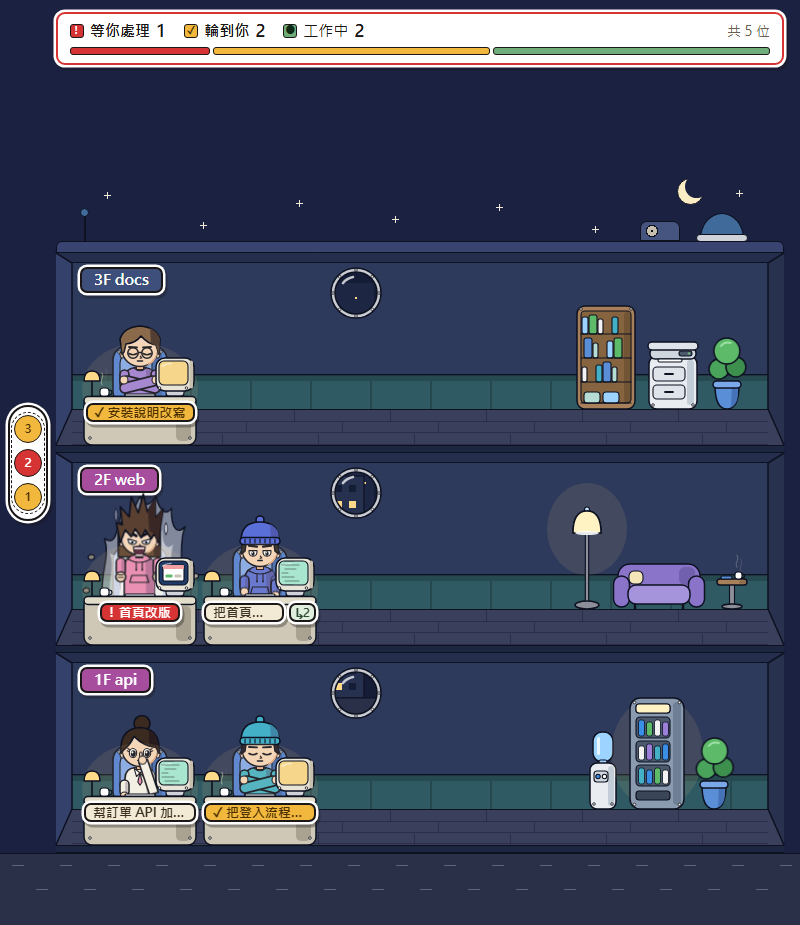
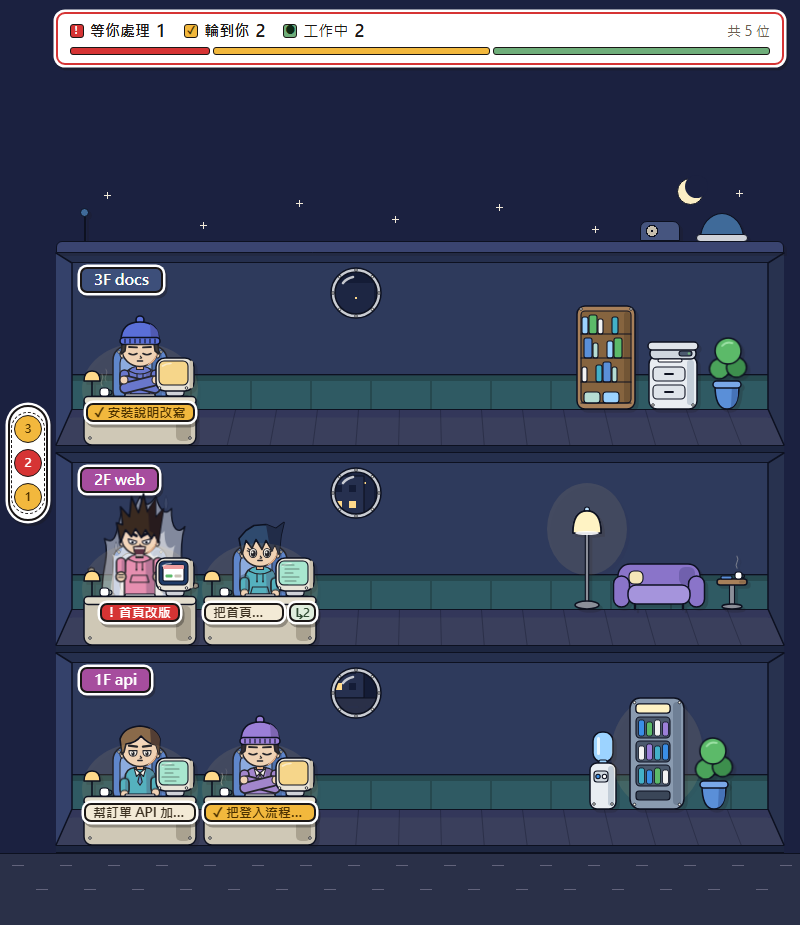
feat: 整體色調和明暗對齊設計稿：天空漸層、深墨線、透視木地板、冷白桌子、硬投影
天空改成設計稿的 #5fb6f5 到 #bfe6ff 漸層（--sky-bg，固定在視窗上，頂端狀態列共用），窗景天空取漸層中間值。
墨線統一成設計稿的 #1b1716。木地板改成透視板縫（objects.ts 的 floorSeams，floor.ts 依樓層寬畫）加後緣深色帶子。
桌子改冷白，桌子、家具、屋頂加往右下的墨色半透明硬投影（--drop）；設計稿的暖褐投影色相太接近琥珀，不用。
樓板、屋頂改成設計稿的顏色。夜晚照舊，只補新變數的夜晚值。重拍 README 截圖。

diff --git a/web/src/styles/building.css b/web/src/styles/building.css
@@ -1,16 +1,16 @@
-html { background: var(--page-bg); }
+html { background: var(--sky-bg); }
 /* body 是直向 flex：狀態列取自己的高度，大樓 flex:1 補滿剩下的視窗高（不必量狀態列） */
-body { margin: 0; min-height: 100vh; display: flex; flex-direction: column; background: var(--page-bg); color: var(--text); font-family: system-ui, "Microsoft JhengHei", sans-serif; }
+body { margin: 0; min-height: 100vh; display: flex; flex-direction: column; color: var(--text); font-family: system-ui, "Microsoft JhengHei", sans-serif; }
 [hidden] { display: none !important; }
 /* 剖面大樓：上方天空、樓層（最高樓在上）、下方地面；樓層左邊留 56 給電梯面板、右邊距 16 */
 #building { flex: 1 0 auto; display: flex; flex-direction: column; overflow-anchor: none; } /* 錨定由 building.ts 自己做（瀏覽器在 scrollY 0 不錨定） */
-/* 天空：頁面底色。白天太陽與白雲、夜晚月牙與星星（building.ts 的 sky()），都貼著天空底部（屋頂上方），天空高時上面留空 */
-#building .sky { position: relative; overflow: hidden; flex: 1 0 72px; background: var(--page-bg); pointer-events: none; }
+/* 天空：透明，露出頁面的天空（theme.css 的 --sky-bg）。白天太陽與白雲、夜晚月牙與星星（building.ts 的 sky()），都貼著天空底部（屋頂上方），天空高時上面留空 */
+#building .sky { position: relative; overflow: hidden; flex: 1 0 72px; pointer-events: none; }
 .sky > div { position: absolute; box-sizing: border-box; }
 .sky .sun, .sky .moon { right: 12%; bottom: 36px; width: 30px; height: 30px; border: 1.4px solid var(--ink); border-radius: 50%; background: var(--sun); }
-/* 月牙：右上蓋一個天空色的圓（不描邊），只留左下的彎月 */
+/* 月牙：右上蓋一個夜空色（夜晚的 --sky-bg 是平塗）的圓（不描邊），只留左下的彎月 */
 .sky .moon { width: 27px; height: 27px; }
-.sky .moon::after { content: ''; position: absolute; left: 6.6px; top: -3.9px; width: 23px; height: 23px; border-radius: 50%; background: var(--page-bg); }
+.sky .moon::after { content: ''; position: absolute; left: 6.6px; top: -3.9px; width: 23px; height: 23px; border-radius: 50%; background: var(--sky-bg); }
 /* 白雲：building.ts 畫的蓬鬆輪廓 svg 撐滿框；框的寬高比照輪廓（78:36） */
 .sky .cloud svg { display: block; width: 100%; height: 100%; overflow: visible; }
 .sky .cloud.c1 { left: 21%; bottom: 14px; width: 60px; height: 28px; }
@@ -21,7 +21,7 @@ body { margin: 0; min-height: 100vh; display: flex; flex-direction: column; back
 :root[data-time="night"] .sky .sun, :root[data-time="night"] .sky .cloud,
 :root:not([data-time="night"]) .sky .moon, :root:not([data-time="night"]) .sky .star { display: none; }
 /* 屋頂：疊在天空底部（往上蓋 30px），只多出 12px 的女兒牆；寬度對齊樓層。圓角機械風，平塗加 1.6px 墨線框 */
-#building .roof { position: relative; z-index: 1; height: 42px; margin: -30px 16px 0 56px; pointer-events: none; }
+#building .roof { position: relative; z-index: 1; height: 42px; margin: -30px 16px 0 56px; pointer-events: none; filter: var(--drop); }
 .roof > div { position: absolute; bottom: 12px; box-sizing: border-box; }
 .roof .parapet { left: 0; right: 0; bottom: 0; height: 12px; border: 1.6px solid var(--ink); border-radius: 6px 6px 0 0; background: var(--roof); }
 /* 圓頂水塔：下緣一圈鋼箍 */
@@ -52,12 +52,11 @@ body { margin: 0; min-height: 100vh; display: flex; flex-direction: column; back
     linear-gradient(var(--wainscot-top), var(--wainscot-top)) 0 112.5px / 100% 5px no-repeat,
     repeating-linear-gradient(90deg, transparent 0 58px, var(--wainscot-top) 58px 60px) 0 117.5px / 100% 29px no-repeat,
     linear-gradient(var(--wainscot), var(--wainscot)) 0 112px / 100% 34px no-repeat, var(--wall); }
-/* 木地板：橫向木板，每 12 一條板縫，接縫一排一排錯開 */
+/* 木地板：靠後牆一條較深的帶子（連上緣墨線共 9，objects.ts 的 FLOOR_BAND）；透視板縫是疊在上面的 .seams（objects.ts 的 floorSeams，floor.ts 依樓層寬畫） */
 .boards { left: 16px; right: 16px; top: 156px; height: 36px; box-sizing: border-box; border-top: 1.5px solid var(--fig-ink);
-  background: linear-gradient(90deg, var(--floor-seam) 0 1.2px, transparent 1.2px) 30px 0 / 96px 10.5px repeat-x,
-    linear-gradient(90deg, var(--floor-seam) 0 1.2px, transparent 1.2px) 78px 11.5px / 96px 11px repeat-x,
-    linear-gradient(90deg, var(--floor-seam) 0 1.2px, transparent 1.2px) 54px 23.5px / 96px 11px repeat-x,
-    repeating-linear-gradient(transparent 0 10.5px, var(--floor-seam) 10.5px 11.5px), var(--floor-wood); }
+  background: linear-gradient(var(--floor-back), var(--floor-back)) 0 0 / 100% 7.5px no-repeat, var(--floor-wood); }
+.seams { left: 0; top: 156px; pointer-events: none; }
+.seams svg { display: block; }
 .side { top: 0; width: 16px; height: 192px; pointer-events: none; }
 .side svg { display: block; }
 .side-l { left: 0; }
@@ -71,6 +70,8 @@ body { margin: 0; min-height: 100vh; display: flex; flex-direction: column; back
 /* 右端家具區：離樓層右緣 24（GEO.sideGap）、寬 200（GEO.furnitureW） */
 .furniture { top: 0; right: 24px; width: 200px; height: 200px; pointer-events: none; }
 .obj { position: absolute; display: block; overflow: visible; }
+/* 桌子、家具、屋頂往右下的硬投影（設計稿）：離開牆面、有深度 */
+.desk > .obj, .furniture > .obj { filter: var(--drop); }
 .desk { position: absolute; top: 0; width: 120px; height: 200px; }
 .desk .desk-code { display: none; }
 .desk[data-st="working"] .desk-code { display: inline; } /* 工作中螢幕上捲動的程式碼（objects.ts 的 DESK_CODE） */

diff --git a/web/src/objects.ts b/web/src/objects.ts
@@ -1,4 +1,4 @@
-// 圓滾滾機械風物件：桌子、椅子、圓窗、右端家具、房間的兩側斜牆。純函式產生 SVG 字串（不碰 DOM），defsSvg() 放進頁面共用的隱藏 <svg>，再用 <use href="#id"> 擺上去。
+// 圓滾滾機械風物件：桌子、椅子、圓窗、右端家具、房間的兩側斜牆、木地板的透視板縫。純函式產生 SVG 字串（不碰 DOM），defsSvg() 放進頁面共用的隱藏 <svg>，再用 <use href="#id"> 擺上去。
 // 畫風和人物一樣：黑色線稿（mk 粗、mk-thin 細）、一階硬影（右側一塊加深的實色，不用網點）、圓角、鉚釘。
 // 座標：原點 = 底邊中點，x 往右、y 往上是負的；symbol 的 viewBox = `${-w/2} ${-h} ${w} ${h}`。
 // 顏色規則：一律寫在 style 或 class，不用 fill="色"／stroke="色" 屬性。
@@ -53,13 +53,26 @@ const BOOKS = ['#9cd3ff', '#5cba69', '#f2f2f2', '#9b7fd8', '#43b0c8', '#5a8fd8',
 //    同一張圖也畫天花板（0–10）和木地板（156–192）的斜角，中段由 building.css 的 .ceil、.wall、.boards 接上 ──
 
 const SIDE = 16, CEIL = 10, BACK = 156, FLOOR = 192;
+/** 木地板靠後牆那條較深的帶子高度（building.css 的 .boards 畫中段，這裡畫斜角） */
+const FLOOR_BAND = 9;
 export const ROOM_SIDE = tag('svg', { xmlns: 'http://www.w3.org/2000/svg', width: SIDE, height: FLOOR, viewBox: `0 0 ${SIDE} ${FLOOR}`, 'aria-hidden': 'true', style: 'overflow:visible' },
   path(`M0 0 H${SIDE} V${CEIL}Z`, undefined, fill('var(--ceiling)'))
   + path(`M0 0 L${SIDE} ${CEIL} V${BACK} L0 ${FLOOR}Z`, undefined, fill('var(--side-wall)'))
   + path(`M${SIDE} ${BACK} V${FLOOR} H0Z`, undefined, fill('var(--floor-wood)'))
+  + path(`M${SIDE} ${BACK} V${BACK + FLOOR_BAND} H${SIDE * (1 - FLOOR_BAND / (FLOOR - BACK))}Z`, undefined, fill('var(--floor-back)'))
   + line(`M0 0 L${SIDE} ${CEIL} V${BACK} L0 ${FLOOR}`, 'mk'));
 
-// ── 桌子 112×88：奶油白桌身、白色桌面、右側抽屜的硬影；胖胖的映像管螢幕在右邊 x 16–54、y −87 到 −54（外殼不放大，畫面放大、邊框變窄）；正面 y −42 到 −23 留白給 HTML 名牌 ──
+/** 木地板的透視板縫（設計稿）：後緣每約 42 一條，往前散開，前緣對到樓層兩端，像兩側斜牆一樣往外收。
+ *  width 是樓層寬，座標從樓層左緣、後牆底（樓層 y 156）起算；floor.ts 依樓層寬重畫 */
+export function floorSeams(width: number): string {
+  const n = Math.max(1, Math.round((width - 2 * SIDE) / 42)), round1 = (v: number) => Math.round(v * 10) / 10;
+  let d = '';
+  for (let i = 1; i < n; i++) d += `M${round1(SIDE + (i / n) * (width - 2 * SIDE))} 0 L${round1((i / n) * width)} ${FLOOR - BACK}`;
+  return tag('svg', { xmlns: 'http://www.w3.org/2000/svg', width, height: FLOOR - BACK, 'aria-hidden': 'true' },
+    line(d, 'mk-thin', 'stroke-width:.9;stroke-opacity:.35'));
+}
+
+// ── 桌子 112×88：冷白桌身、白色桌面、右側抽屜的硬影；胖胖的映像管螢幕在右邊 x 16–54、y −87 到 −54（外殼不放大，畫面放大、邊框變窄）；正面 y −42 到 −23 留白給 HTML 名牌 ──
 
 const SCREEN: Record<DeskState, string> = {
   empty: 'var(--screen-off)',

diff --git a/web/src/floor.ts b/web/src/floor.ts
@@ -2,7 +2,7 @@
 import type { Employee } from '../../src/state/types.js';
 import { GEO, plateText, seatCenter, type Floor } from './floors.js';
 import { furnitureSet, layoutSet, SIGN_MAX_W, SIGN_X, windowView, windowXs } from './furniture.js';
-import { DESK_CODE, DESK_STEAM, FURN_ANIM, GLASS, OBJECTS, PANO, ROOM_SIDE, type DeskState, type ObjectId } from './objects.js';
+import { DESK_CODE, DESK_STEAM, FURN_ANIM, GLASS, OBJECTS, PANO, ROOM_SIDE, floorSeams, type DeskState, type ObjectId } from './objects.js';
 import { div, el } from './dom.js';
 import { motionDelay } from './view.js';
 
@@ -79,12 +79,14 @@ export class FloorView {
   private windows = div('windows');
   private furniture = div('furniture'); // 離右緣 GEO.sideGap、寬 GEO.furnitureW
   private furnKey: string | null = null; // 目前擺的是哪個 roomKey 的那組
+  private seams = div('seams'); // 木地板的透視板縫，依樓層寬畫
+  private seamsW = 0;
   private f: Floor | null = null;
 
   constructor(hooks: { hover(e: Employee, at: DOMRect): void; unhover(): void }) {
     this.sign.style.left = `${SIGN_X}px`;
     this.sign.style.maxWidth = `${SIGN_MAX_W}px`; // 到第一扇窗之前
-    this.inner.append(...shell(), this.windows, this.sign, this.furniture, this.chairs, this.people, this.deskRow);
+    this.inner.append(...shell(), this.seams, this.windows, this.sign, this.furniture, this.chairs, this.people, this.deskRow);
     this.el.append(this.inner); // 內容座標與 seatCenter 同一套
     // 滑過人物：依 data-key 找這層目前的佔用者
     const personOf = (t: EventTarget | null): HTMLElement | null => (t instanceof Element ? t.closest<HTMLElement>('.person') : null);
@@ -105,6 +107,10 @@ export class FloorView {
     this.f = f;
     this.el.dataset.key = f.key;
     this.inner.style.width = `${width}px`;
+    if (this.seamsW !== width) {
+      this.seamsW = width;
+      this.seams.innerHTML = floorSeams(width); // objects.ts 產生、不含使用者資料
+    }
     this.placeWindows(width, f.level);
     if (this.furnKey !== f.key) this.placeFurniture(f.key);
     this.sign.textContent = `${f.level}F ${f.title}`;

diff --git a/web/src/styles/theme.css b/web/src/styles/theme.css
@@ -10,19 +10,21 @@
   --ui-ink: #1b1716;
   --ui-border: 2px solid var(--ui-ink);
   --ui-shadow: 0 0 0 2.5px #fff, 2px 3px 0 2.5px rgb(27 23 22 / .35);
+  /* 桌子、家具、屋頂往右下的半透明硬投影（設計稿的 feDropShadow）。設計稿用暖褐 #5a3418，色相太接近琥珀，改用墨色 */
+  --drop: drop-shadow(3px 3px 0 rgb(27 23 22 / .18));
 }
 
 :root[data-time="day"] {
   color-scheme: light;
   --day: 1;
   --night: 0;
-  --page-bg: #cfe1ee;
+  --sky-bg: linear-gradient(#5fb6f5, #bfe6ff) fixed; /* 天空漸層固定在視窗上（html 與頂端狀態列共用才接得起來） */
   --paper: #faf5ea;
   --text: #2d2a26;
   --text-sub: #6b5f4f;
-  --ink: #2d2a26;
-  --fig-ink: #1a1a1a;
-  --fx: #1a1a1a;
+  --ink: #1b1716;
+  --fig-ink: #1b1716;
+  --fx: #1b1716;
   --wall: #fbf1dc;
   --ceiling: #e6d2ab;
   --side-wall: #efdcb8;
@@ -30,14 +32,14 @@
   --wainscot: #9ccfc3;
   --wainscot-top: #7db5a8;
   --floor-wood: #e3d3b0;
-  --floor-seam: #c4ad80;
-  --slab: #c9b99a;
-  --window-sky: #a9c6de;
+  --floor-back: #d2c098;
+  --slab: #cdb894;
+  --window-sky: #8fcefa; /* 天空漸層兩端的中間值：設計稿的圓窗裡畫的就是同一片漸層 */
   --city: #8aa3b8;
   --city-lit: #f6e7b0;
-  --desk: #f4eedf;
-  --desk-top: #fffaf0;
-  --desk-shade: #ddd3bd;
+  --desk: #e9edf2;
+  --desk-top: #fff;
+  --desk-shade: #c3cdd8;
   --wood: #c79a6a;
   --wood-shade: #a87e52;
   --monitor: #2a2a2a;
@@ -49,7 +51,7 @@
   --button: #e8dbc2;
   --plate: #fbf6ea;
   --ground: #d9d2c2;
-  --roof: #b9a98a;
+  --roof: #e6d2ab;
   --lamp-glow: transparent; /* 白天不顯示 */
 }
 
@@ -57,7 +59,7 @@
   color-scheme: dark;
   --day: 0;
   --night: 1;
-  --page-bg: #1b2140;
+  --sky-bg: #1b2140;
   --paper: #2a3152;
   --text: #f1e9d8;
   --text-sub: #b7b0c8;
@@ -71,7 +73,7 @@
   --wainscot: #2f5a63;
   --wainscot-top: #26494f;
   --floor-wood: #3a3f5c;
-  --floor-seam: #2a2e48;
+  --floor-back: #33375a;
   --slab: #1d2640;
   --window-sky: #141c36;
   --city: #26304f;

diff --git a/web/src/styles/ui.css b/web/src/styles/ui.css
@@ -2,7 +2,7 @@
 :is(#summary, #elevator, .card) { --paper: #fff; --text: var(--ui-ink); --text-sub: #6b5f4f; --ink: var(--ui-ink); --button: #e8dbc2; }
 /* 狀態列：白卡，圖例＋比例條；外框跟著最緊急的狀態變色（等你處理紅、輪到你琥珀、其餘一般墨線）。
    整頁橫向捲動時釘在左邊，寬度維持視窗寬（--view-w 由 building.ts 設） */
-#top { position: sticky; top: 0; left: 0; z-index: 20; box-sizing: border-box; width: var(--view-w, auto); padding: 12px 16px 10px 56px; background: var(--page-bg); }
+#top { position: sticky; top: 0; left: 0; z-index: 20; box-sizing: border-box; width: var(--view-w, auto); padding: 12px 16px 10px 56px; background: var(--sky-bg); }
 #summary { padding: 6px 12px 8px; display: flex; flex-direction: column; gap: 6px;
   background: var(--paper); color: var(--text); border: var(--ui-border); box-shadow: var(--ui-shadow); border-radius: 9px; }
 #summary.turn { border: 2.6px solid var(--turn); }

diff --git a/test/objects.test.ts b/test/objects.test.ts
@@ -1,6 +1,6 @@
 import { readFileSync } from 'node:fs';
 import { expect, test } from 'vitest';
-import { CODE_SCROLL, DESK_CODE, DESK_STEAM, FURN_ANIM, OBJECTS, PANO, ROOM_SIDE, defsSvg, type ObjectId } from '../web/src/objects.js';
+import { CODE_SCROLL, DESK_CODE, DESK_STEAM, FURN_ANIM, OBJECTS, PANO, ROOM_SIDE, defsSvg, floorSeams, type ObjectId } from '../web/src/objects.js';
 
 const IDS = Object.keys(OBJECTS) as ObjectId[];
 const DESKS: ObjectId[] = ['desk-empty', 'desk-working', 'desk-waiting', 'desk-idle'];
@@ -55,7 +55,7 @@ test('四種桌子都存在且彼此不同', () => {
 });
 
 test('顏色不寫在屬性上', () => {
-  for (const s of [defsSvg(), ROOM_SIDE]) expect(s).not.toMatch(/\s(fill|stroke)="(?!none")/);
+  for (const s of [defsSvg(), ROOM_SIDE, floorSeams(800)]) expect(s).not.toMatch(/\s(fill|stroke)="(?!none")/);
 });
 
 test('房間側牆（含天花板和地板的斜角）用主題變數上色，日夜才切得過去', () => {

diff --git a/test/state-colors.test.ts b/test/state-colors.test.ts
@@ -1,7 +1,7 @@
 import { readFileSync } from 'node:fs';
 import { expect, test } from 'vitest';
 import { WARP_SVG, avatarSvg, figureSvg } from '../web/src/figure.js';
-import { ROOM_SIDE, defsSvg } from '../web/src/objects.js';
+import { ROOM_SIDE, defsSvg, floorSeams } from '../web/src/objects.js';
 import { EYE_TYPES, HAIR_COLORS, HAIR_STYLES, OUTFIT_COUNT, PROJECT_COLORS, SHIRT_COLORS, type Look } from '../web/src/view.js';
 
 // 紅色只代表「等你處理」、琥珀色只代表「輪到你」：其他地方的 hex 色不能和這兩色同色相又夠鮮豔
@@ -46,7 +46,7 @@ test('人物 SVG（所有外觀組合，含瞬移光痕）沒有狀態色', () =
 });
 
 test('環境 SVG 沒有狀態色，也不引用狀態色變數', () => {
-  const s = defsSvg() + ROOM_SIDE;
+  const s = defsSvg() + ROOM_SIDE + floorSeams(800);
   expect(hexes(s).filter(isStateLike)).toEqual([]);
   expect(s).not.toMatch(/var\(--(waiting|turn)\)/);
 });

diff --git a/docs/design.md b/docs/design.md
@@ -61,8 +61,8 @@ Claude Code ─hook─▶ src/hook/send.ts ─POST /events─▶ src/server ─r
 - **助理不佔座位**：只在主人名牌旁顯示「↳N」，N 是工作中的數量，詳細內容看資訊卡。電梯燈、狀態列、分頁標題都不算助理。
 - **沒有電梯和走路**：人在座位上瞬移登場（直向光痕閃兩下，人從窄變寬、稍微超過再彈回，兩邊的殘影收回本體，約 0.35 秒）；退場時站起來雙指點額 0.3 秒，再閃三下、橫向壓成一條線，留下光痕後消失（共約 0.8 秒）。開頁面和重新連線時大家直接坐好，不播動畫。電梯進出原本是前端最複雜、又沒有測試的部分，所以拿掉，換成好維護。
 - **生命力來自狀態動作**：工作中殘像打字（兩層半透明殘影，約每 7 秒停下來推一次鼻子，螢幕程式碼一行一行往上捲；三種狀態裡最安靜），等你處理站起來爆氣（半透明白色的火焰氣場，白天疊在奶油色牆上看不清楚，所以外圍加一圈冷藍光暈；只有角色自己抖動、整層樓不震動；紅色只留給名牌），輪到你抱胸閉眼冥想（約每 6 秒睜開右眼、挑起右眉瞄觀看者約 0.5 秒；減少動態時停在閉眼）。每個人的動作用 sessionId 算出的延遲錯開（`view.ts` 的 `motionDelay`，`person.ts` 設成 CSS 變數 `--delay`），不會像整排機器人同步。環境也會動，但都比爆氣安靜得多（慢、幅度小）：屋頂上方的三朵雲各自左右飄、窗景的雲整片往左飄（所有窗看的是同一片天，所以一起飄；雲在全景上半部，4F 以上的窗才看得到）、盆栽的葉子輕晃、邊桌的咖啡和輪到你桌上的馬克杯冒煙。家具和桌子的動作用 `motionDelay(樓層 key + 家具或座位)` 錯開。環境動畫都寫在 `theme.css`，`building.css` 不放動畫（樓層本身不能動）。減少動態時 `#building *` 一條規則全停，煙停在半透明、不消失。
-- **每層樓是淺盒舞台**：看得到天花板、後牆（下段是藍綠色護牆板）、木地板和兩側斜牆，人和家具仍然正面朝向觀看者。樓層寬度不固定，所以外殼的中段用 CSS 畫，兩側寬 16 的斜牆（連同天花板和地板的斜角）是一張固定大小的 SVG（`objects.ts` 的 `ROOM_SIDE`），右邊那張用 CSS 鏡像。桌子、招牌和家具區離樓層左右緣各留 24（`GEO.sideGap`），不貼著斜牆；樓層寬也跟著多 48。
-- **畫風**：介面（名牌、招牌、狀態列、電梯面板、資訊卡）共用一組樣式變數（`theme.css` 的 `--ui-*`）：2px 墨線框、2.5px 白外圈、往右下的半透明硬投影，值取自設計稿白天畫板的名牌；招牌和狀態列在設計稿裡投影略有不同，統一成同一組。狀態列、電梯面板、資訊卡日夜長得一樣（白底墨字，在元素上把主題變數蓋回固定值）。環境是圓滾滾的機械風，和人物同一套畫法：黑色線稿、圓角、鉚釘、一階硬影（右側一塊加深的實色，不用網點）；奶油白桌子配胖胖的映像管螢幕（畫面大、邊框窄）、每張桌子後面一把藍色椅子（不用藍綠，免得和護牆板混在一起；空桌也有，畫在人後面，椅背從人的兩側露出來）、鉚釘圓窗、圓頂水塔、圓頭立燈。雲照設計稿畫成平底、上緣三個圓包的蓬鬆輪廓加墨線（`objects.ts` 的 `CLOUD_D`），屋頂上方的雲和窗景的雲共用；線寬不跟著縮放，窗裡的小雲也看得到線。人物是鳥山明前期風的 Q 版，造型照「Claude 辦公室美術設計稿」artifact 的定稿：大頭（寬橢圓臉，瀏海壓到眉毛、五官在臉的下半部）、黑色線稿（外輪廓 `ol` 比內線粗）、一階硬影（同色加深的實色，不用網點）、中明度飽和色的衣服、自然色的頭髮、大塊稜角髮束、只露前臂、人物本身不畫椅子（椅子是桌子那一層的物件）；眼型（角度眼加粗斜眉、大圓眼加睫毛）、髮型、髮色、衣服都由 sessionId 雜湊決定。不放原作的角色、招牌髮型、標誌或名字。
+- **每層樓是淺盒舞台**：看得到天花板、後牆（下段是藍綠色護牆板）、木地板和兩側斜牆，人和家具仍然正面朝向觀看者。樓層寬度不固定，所以外殼的中段用 CSS 畫，兩側寬 16 的斜牆（連同天花板和地板的斜角）是一張固定大小的 SVG（`objects.ts` 的 `ROOM_SIDE`），右邊那張用 CSS 鏡像。木地板照設計稿畫透視：靠後牆一條較深的帶子，板縫在後緣每約 42 一條、往前散開對到樓層兩端，這要知道樓層寬，所以由 `floor.ts` 依寬度畫一張 SVG（`objects.ts` 的 `floorSeams`）。桌子、招牌和家具區離樓層左右緣各留 24（`GEO.sideGap`），不貼著斜牆；樓層寬也跟著多 48。
+- **畫風**：介面（名牌、招牌、狀態列、電梯面板、資訊卡）共用一組樣式變數（`theme.css` 的 `--ui-*`）：2px 墨線框、2.5px 白外圈、往右下的半透明硬投影，值取自設計稿白天畫板的名牌；招牌和狀態列在設計稿裡投影略有不同，統一成同一組。狀態列、電梯面板、資訊卡日夜長得一樣（白底墨字，在元素上把主題變數蓋回固定值）。環境是圓滾滾的機械風，和人物同一套畫法：黑色線稿、圓角、鉚釘、一階硬影（右側一塊加深的實色，不用網點）；整體配色、明暗和墨線（`#1b1716`）以設計稿白天畫板為準：天空是 `#5fb6f5` 到 `#bfe6ff` 的漸層（`--sky-bg`，固定在視窗上，頂端狀態列的底也用它才接得起來），桌子、家具、屋頂有往右下 3px 的半透明硬投影（`--drop`），讓它們離開牆面；設計稿的投影是暖褐 `#5a3418`，色相太接近琥珀，所以改用墨色。桌子是冷白（奶油色的桌子和奶油色的牆混在一起，看起來是平的），配胖胖的映像管螢幕（畫面大、邊框窄）、每張桌子後面一把藍色椅子（不用藍綠，免得和護牆板混在一起；空桌也有，畫在人後面，椅背從人的兩側露出來）、鉚釘圓窗、圓頂水塔、圓頭立燈。雲照設計稿畫成平底、上緣三個圓包的蓬鬆輪廓加墨線（`objects.ts` 的 `CLOUD_D`），屋頂上方的雲和窗景的雲共用；線寬不跟著縮放，窗裡的小雲也看得到線。人物是鳥山明前期風的 Q 版，造型照「Claude 辦公室美術設計稿」artifact 的定稿：大頭（寬橢圓臉，瀏海壓到眉毛、五官在臉的下半部）、黑色線稿（外輪廓 `ol` 比內線粗）、一階硬影（同色加深的實色，不用網點）、中明度飽和色的衣服、自然色的頭髮、大塊稜角髮束、只露前臂、人物本身不畫椅子（椅子是桌子那一層的物件）；眼型（角度眼加粗斜眉、大圓眼加睫毛）、髮型、髮色、衣服都由 sessionId 雜湊決定。不放原作的角色、招牌髮型、標誌或名字。
 - **日夜依本機時間**：6:00–18:00 是白天，可以用 `?time=day|night` 固定。不看系統深色模式，切換也沒有過渡動畫。
 
 ## 做到了也算失敗
